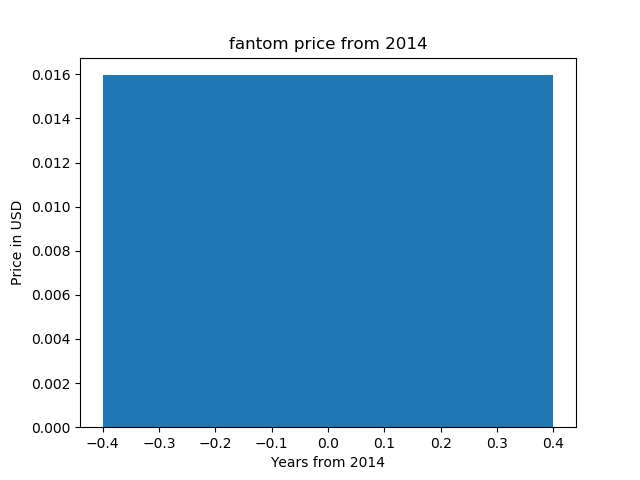
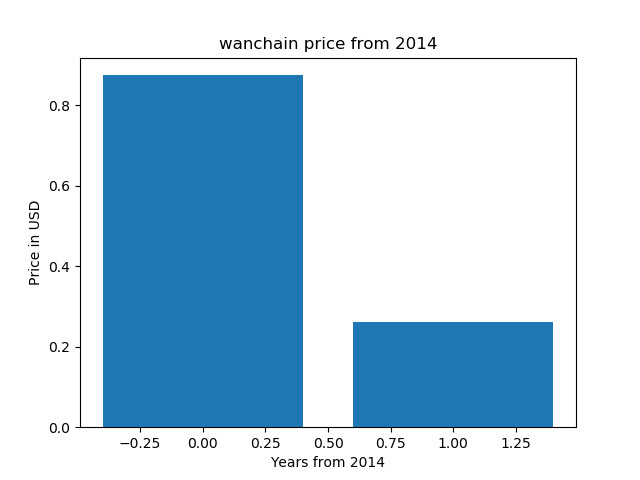
first commit

diff --git a/example.py b/example.py
@@ -10,7 +10,7 @@ from time import gmtime, strftime
 import matplotlib.pyplot as plt
 
 enddate = strftime("%Y%m%d", gmtime())
-r  = requests.get("https://coinmarketcap.com/currencies/fantom/historical-data/?start=20140101&end={0}".format(enddate))
+r  = requests.get("https://coinmarketcap.com/currencies/wanchain/historical-data/?start=20140101&end={0}".format(enddate))
 data = r.text
 
 soup = BeautifulSoup(data, "html.parser")
@@ -44,7 +44,7 @@ print(x)
 
 x = list(range(0, len(prices)))
 
-plt.title('fantom price from 2014')
+plt.title('wanchain price from 2014')
 plt.ylabel('Price in USD')
 plt.xlabel('Years from 2014')
 plt.bar(x, prices)

diff --git a/README.md b/README.md
@@ -1,6 +1,6 @@
-# fantom price chart 
+# wanchain price chart 
 
-fantom price chart (matplotlib, python)
+wanchain price chart (matplotlib, python)
 
 https://pythonprogramminglanguage.com
 
